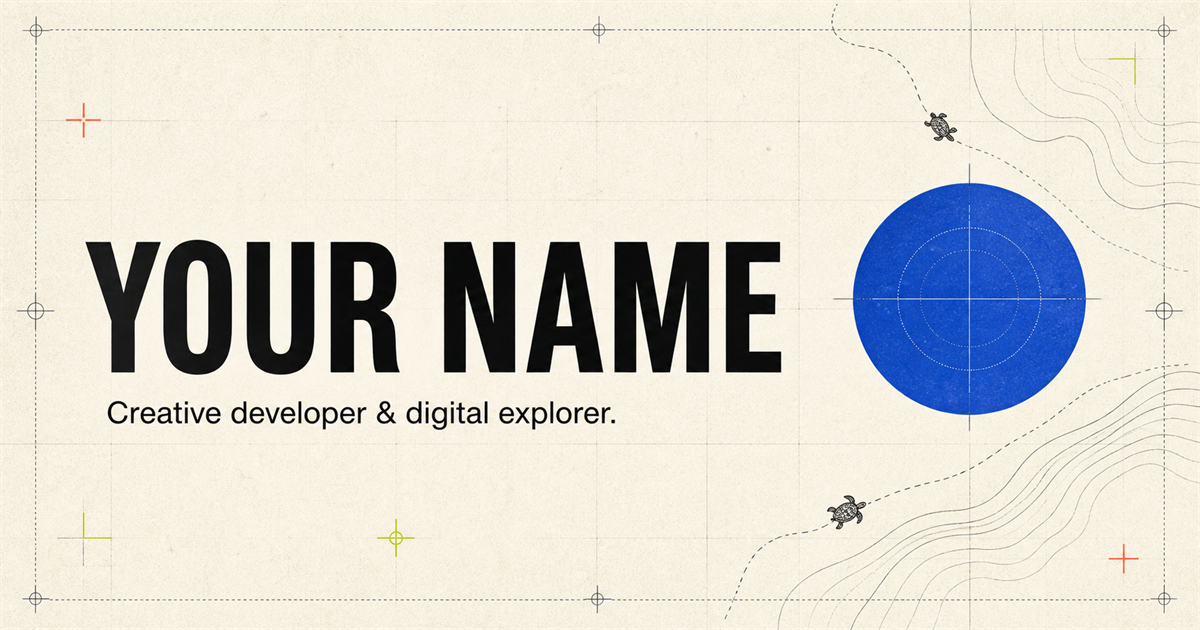
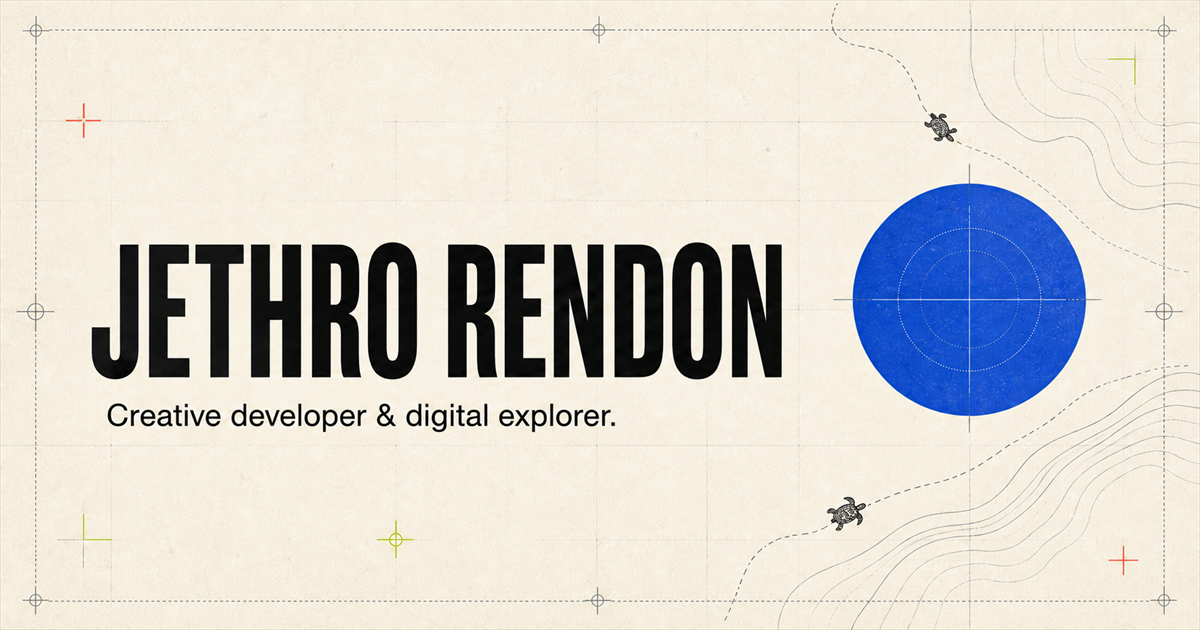
Personalize portfolio content and assets

diff --git a/app/page.tsx b/app/page.tsx
@@ -621,7 +621,7 @@ export default function Home() {
       <header className="topbar">
         <a className="wordmark" href="#top" aria-label="Back to the top">
           <span className="wordmark-dot" />
-          YN / 26
+          JR / 04
         </a>
         <nav className="nav-pill" aria-label="Primary navigation">
           <a href="#work">Work</a>
@@ -695,8 +695,8 @@ export default function Home() {
           <p className="eyebrow">
             <span /> Portfolio / selected realities
           </p>
-          <h1 className="glitch-title" data-text="YOUR NAME">
-            <span>YOUR</span> <span>NAME</span>
+          <h1 className="glitch-title" data-text="JETHRO RENDON">
+            <span>JETHRO</span> <span>RENDON</span>
           </h1>
           <p className="hero-role">
             Creative developer <em>&amp;</em> digital explorer.
@@ -735,13 +735,19 @@ export default function Home() {
             <Turtle aria-hidden="true" />
           </div>
           <div className="profile-card">
-            <div className="profile-photo" aria-hidden="true">
-              <span>YN</span>
-              <i aria-hidden="true" />
+            <div className="profile-photo">
+              <Image
+                src="/tarts.jpeg"
+                alt="Portrait of Jethro Rendon"
+                fill
+                sizes="(max-width: 720px) 46vw, 244px"
+                className="profile-photo-image"
+                loading="eager"
+              />
             </div>
             <div className="profile-card-copy">
               <span className="profile-kicker">Profile / 01</span>
-              <strong>YOUR NAME</strong>
+              <strong>JETHRO RENDON</strong>
               <span className="profile-note">
                 Creative developer
                 <br />
@@ -1230,7 +1236,7 @@ export default function Home() {
           </div>
         </section>
         <div className="footer-meta">
-          <span>© 2026 / YOUR NAME</span>
+          <span>© 2026 / JETHRO RENDON</span>
           <span>Designed with curiosity · built with care</span>
           <a href="#top">
             Back to top <ArrowUpRight />

diff --git a/app/layout.tsx b/app/layout.tsx
@@ -18,11 +18,11 @@ const socialImage = metadataBase ? new URL('/og.png', metadataBase) : undefined;
 
 export const metadata: Metadata = {
   metadataBase,
-  title: 'YOUR NAME — Creative Developer & Digital Explorer',
+  title: 'Jethro Rendon — Creative Developer & Digital Explorer',
   description:
     'A field journal of expressive interfaces, production-grade code, travel traces, and selected digital work.',
   openGraph: {
-    title: 'YOUR NAME — Creative Developer & Digital Explorer',
+    title: 'Jethro Rendon — Creative Developer & Digital Explorer',
     description:
       'Selected work, code signals, and travel traces from a nearby universe.',
     type: 'website',
@@ -32,14 +32,14 @@ export const metadata: Metadata = {
             url: socialImage,
             width: 1200,
             height: 630,
-            alt: 'YOUR NAME — Creative developer and digital explorer',
+            alt: 'Jethro Rendon — Creative developer and digital explorer',
           },
         ]
       : undefined,
   },
   twitter: {
     card: 'summary_large_image',
-    title: 'YOUR NAME — Creative Developer & Digital Explorer',
+    title: 'Jethro Rendon — Creative Developer & Digital Explorer',
     description:
       'Selected work, code signals, and travel traces from a nearby universe.',
     images: socialImage ? [socialImage] : undefined,

diff --git a/app/globals.css b/app/globals.css
@@ -633,11 +633,11 @@ button {
   background-size: 22px 22px;
 }
 .profile-photo::before {
-  content: '';
-  position: absolute;
-  inset: 12%;
-  border: 1px dashed rgba(36, 75, 214, 0.55);
-  border-radius: 50%;
+  display: none;
+}
+.profile-photo-image {
+  object-fit: cover;
+  object-position: center 25%;
 }
 .profile-photo span {
   position: relative;

diff --git a/scripts/create_resume.py b/scripts/create_resume.py
@@ -10,7 +10,7 @@ from reportlab.pdfgen import canvas
 from reportlab.platypus import Paragraph
 
 
-OUTPUT = Path(__file__).resolve().parents[1] / "output" / "pdf" / "your-name-resume.pdf"
+OUTPUT = Path(__file__).resolve().parents[1] / "output" / "pdf" / "jethro-rendon-resume.pdf"
 
 INK = HexColor("#111411")
 PAPER = HexColor("#F4F1E8")
@@ -69,8 +69,8 @@ def build():
     width, height = A4
     margin = 17 * mm
 
-    pdf.setTitle("YOUR NAME - Resume")
-    pdf.setAuthor("YOUR NAME")
+    pdf.setTitle("Jethro Rendon - Resume")
+    pdf.setAuthor("Jethro Rendon")
     pdf.setFillColor(PAPER)
     pdf.rect(0, 0, width, height, stroke=0, fill=1)
 
@@ -83,7 +83,7 @@ def build():
 
     pdf.setFillColor(PAPER)
     pdf.setFont("Helvetica-Bold", 31)
-    pdf.drawString(margin, height - 31 * mm, "YOUR NAME")
+    pdf.drawString(margin, height - 31 * mm, "JETHRO RENDON")
     pdf.setFont("Helvetica", 14)
     pdf.drawString(margin, height - 41 * mm, "Creative Developer + Frontend Engineer")
     pdf.setFillColor(LIME)
